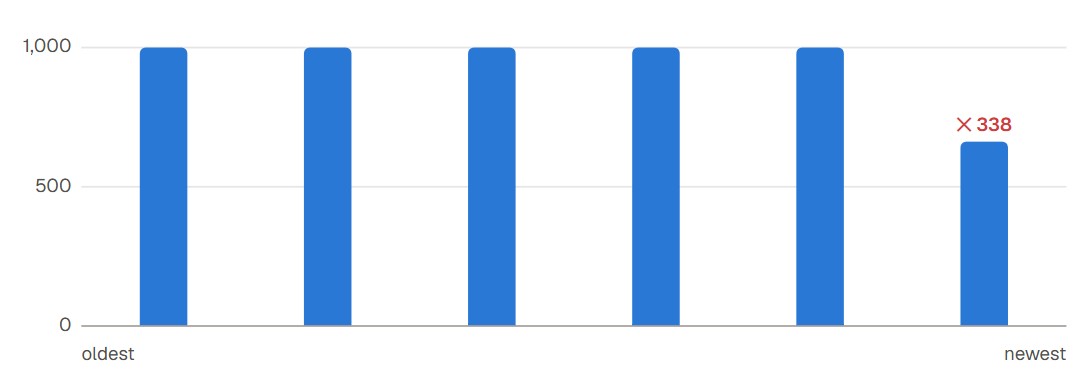
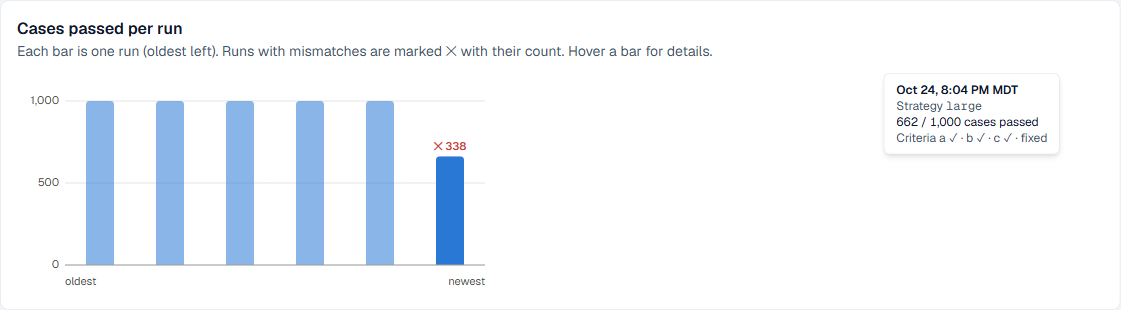
Align loop-history tooltip with its bar

Changed region(s): [[0.0, 0.0581, 0.9715, 0.9871], [0.9108, 0.929, 1.0, 0.9871]]

diff --git a/src/components/LoopRunsChart.tsx b/src/components/LoopRunsChart.tsx
@@ -34,7 +34,8 @@ export default function LoopRunsChart({ runs }: { runs: ChartRun[] }) {
 
   const h = hover === null ? null : runs[hover];
   return (
-    <div className="relative overflow-x-auto">
+    // Wrapper hugs the chart so the tooltip's percentage position lines up with the bars.
+    <div className="relative w-fit max-w-full">
       <svg
         viewBox={`0 0 ${W} ${H}`}
         width={W}
